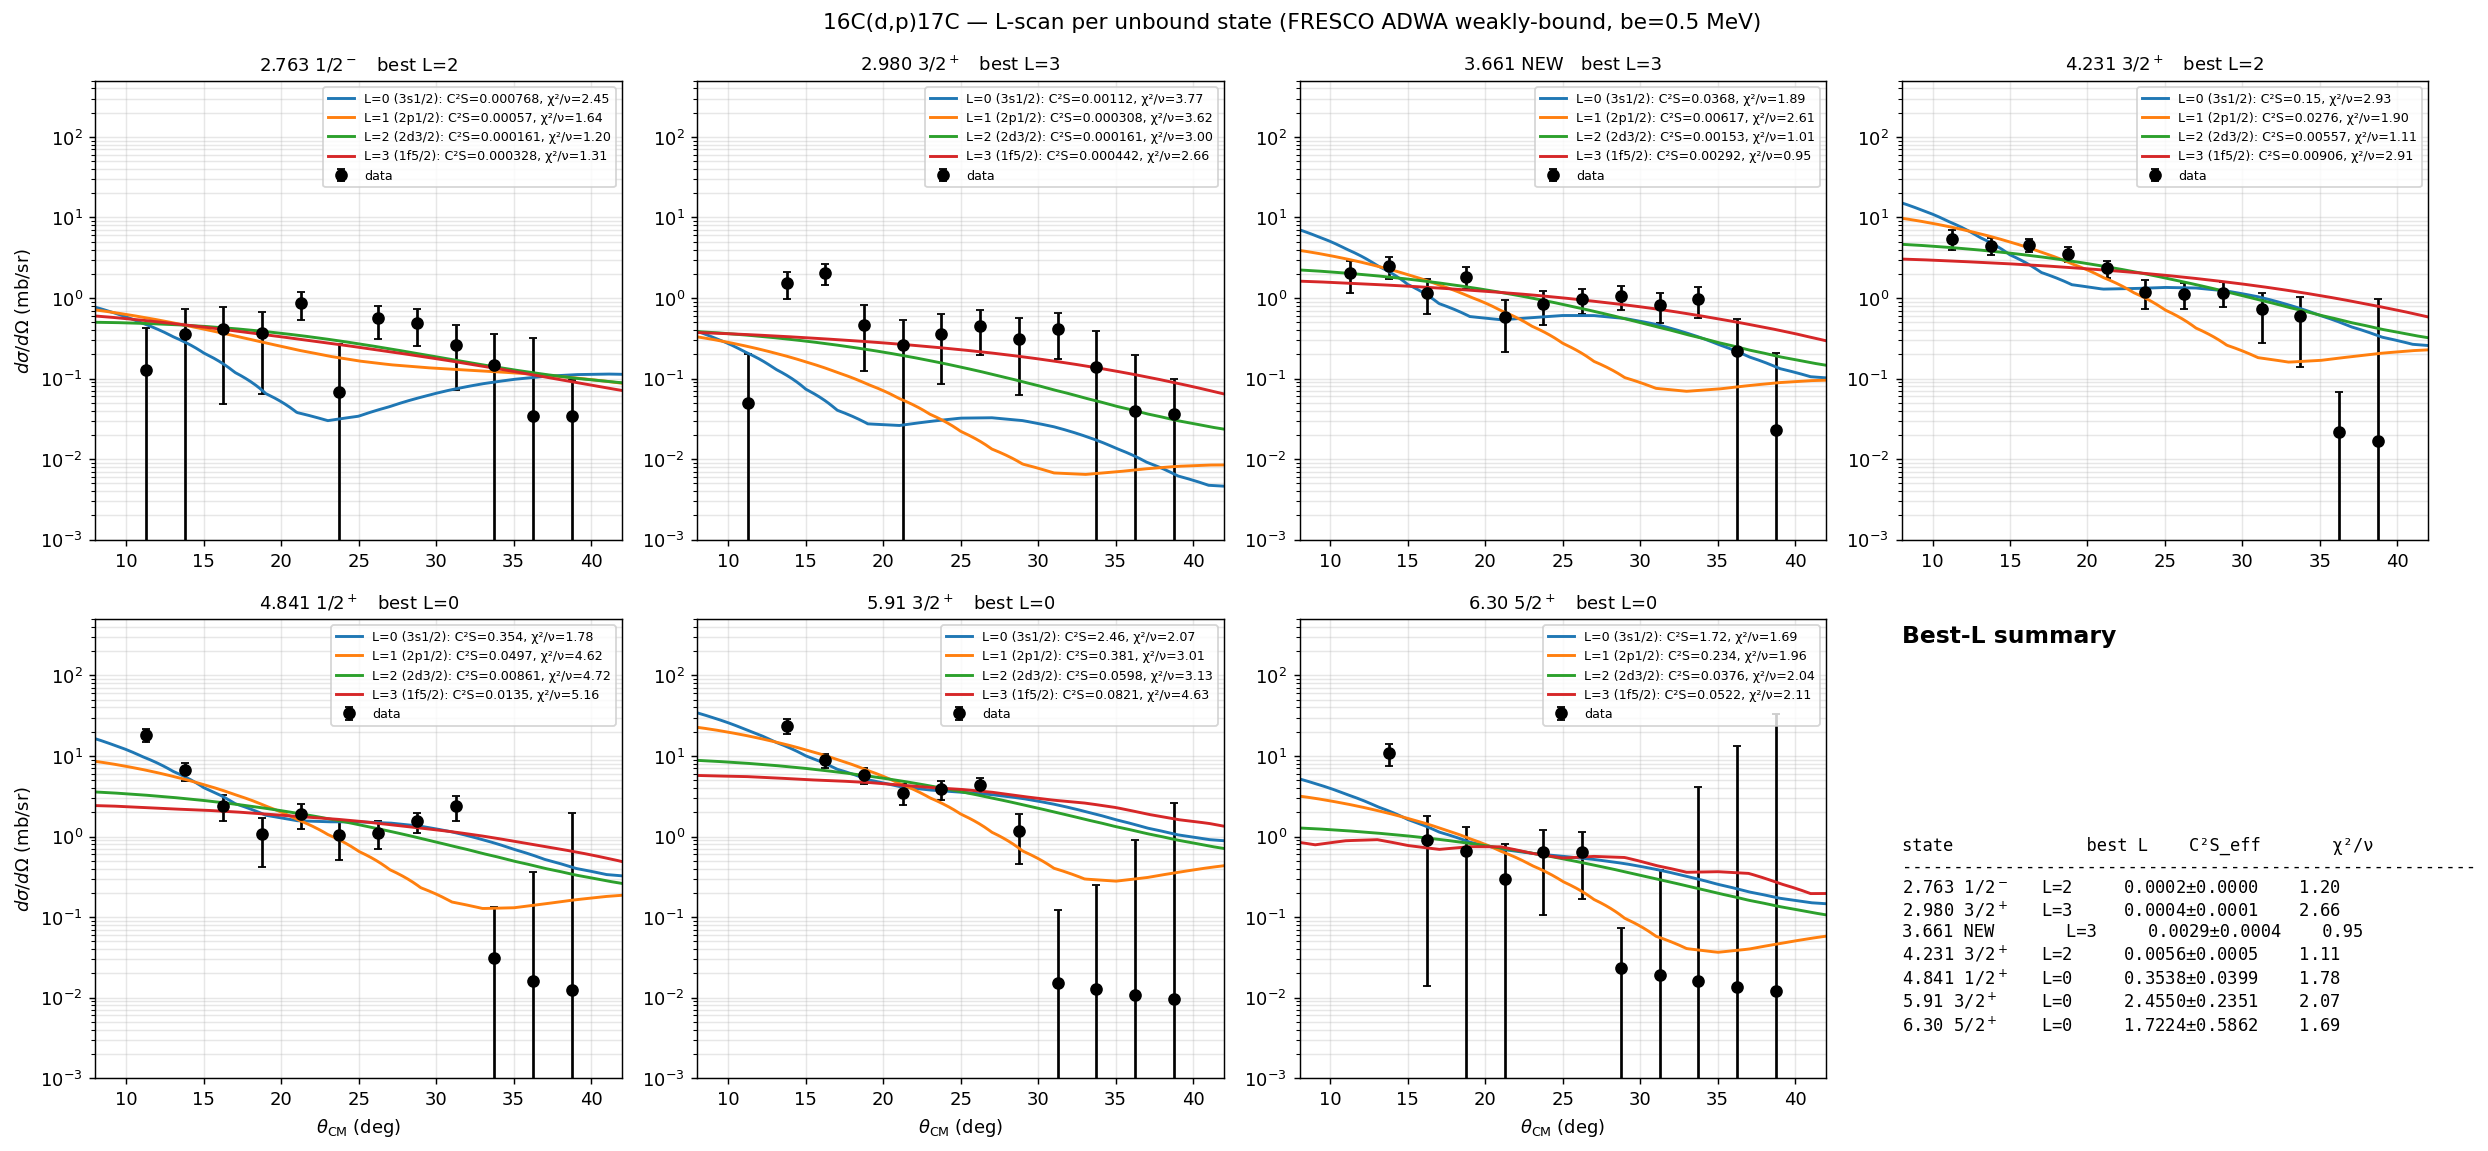
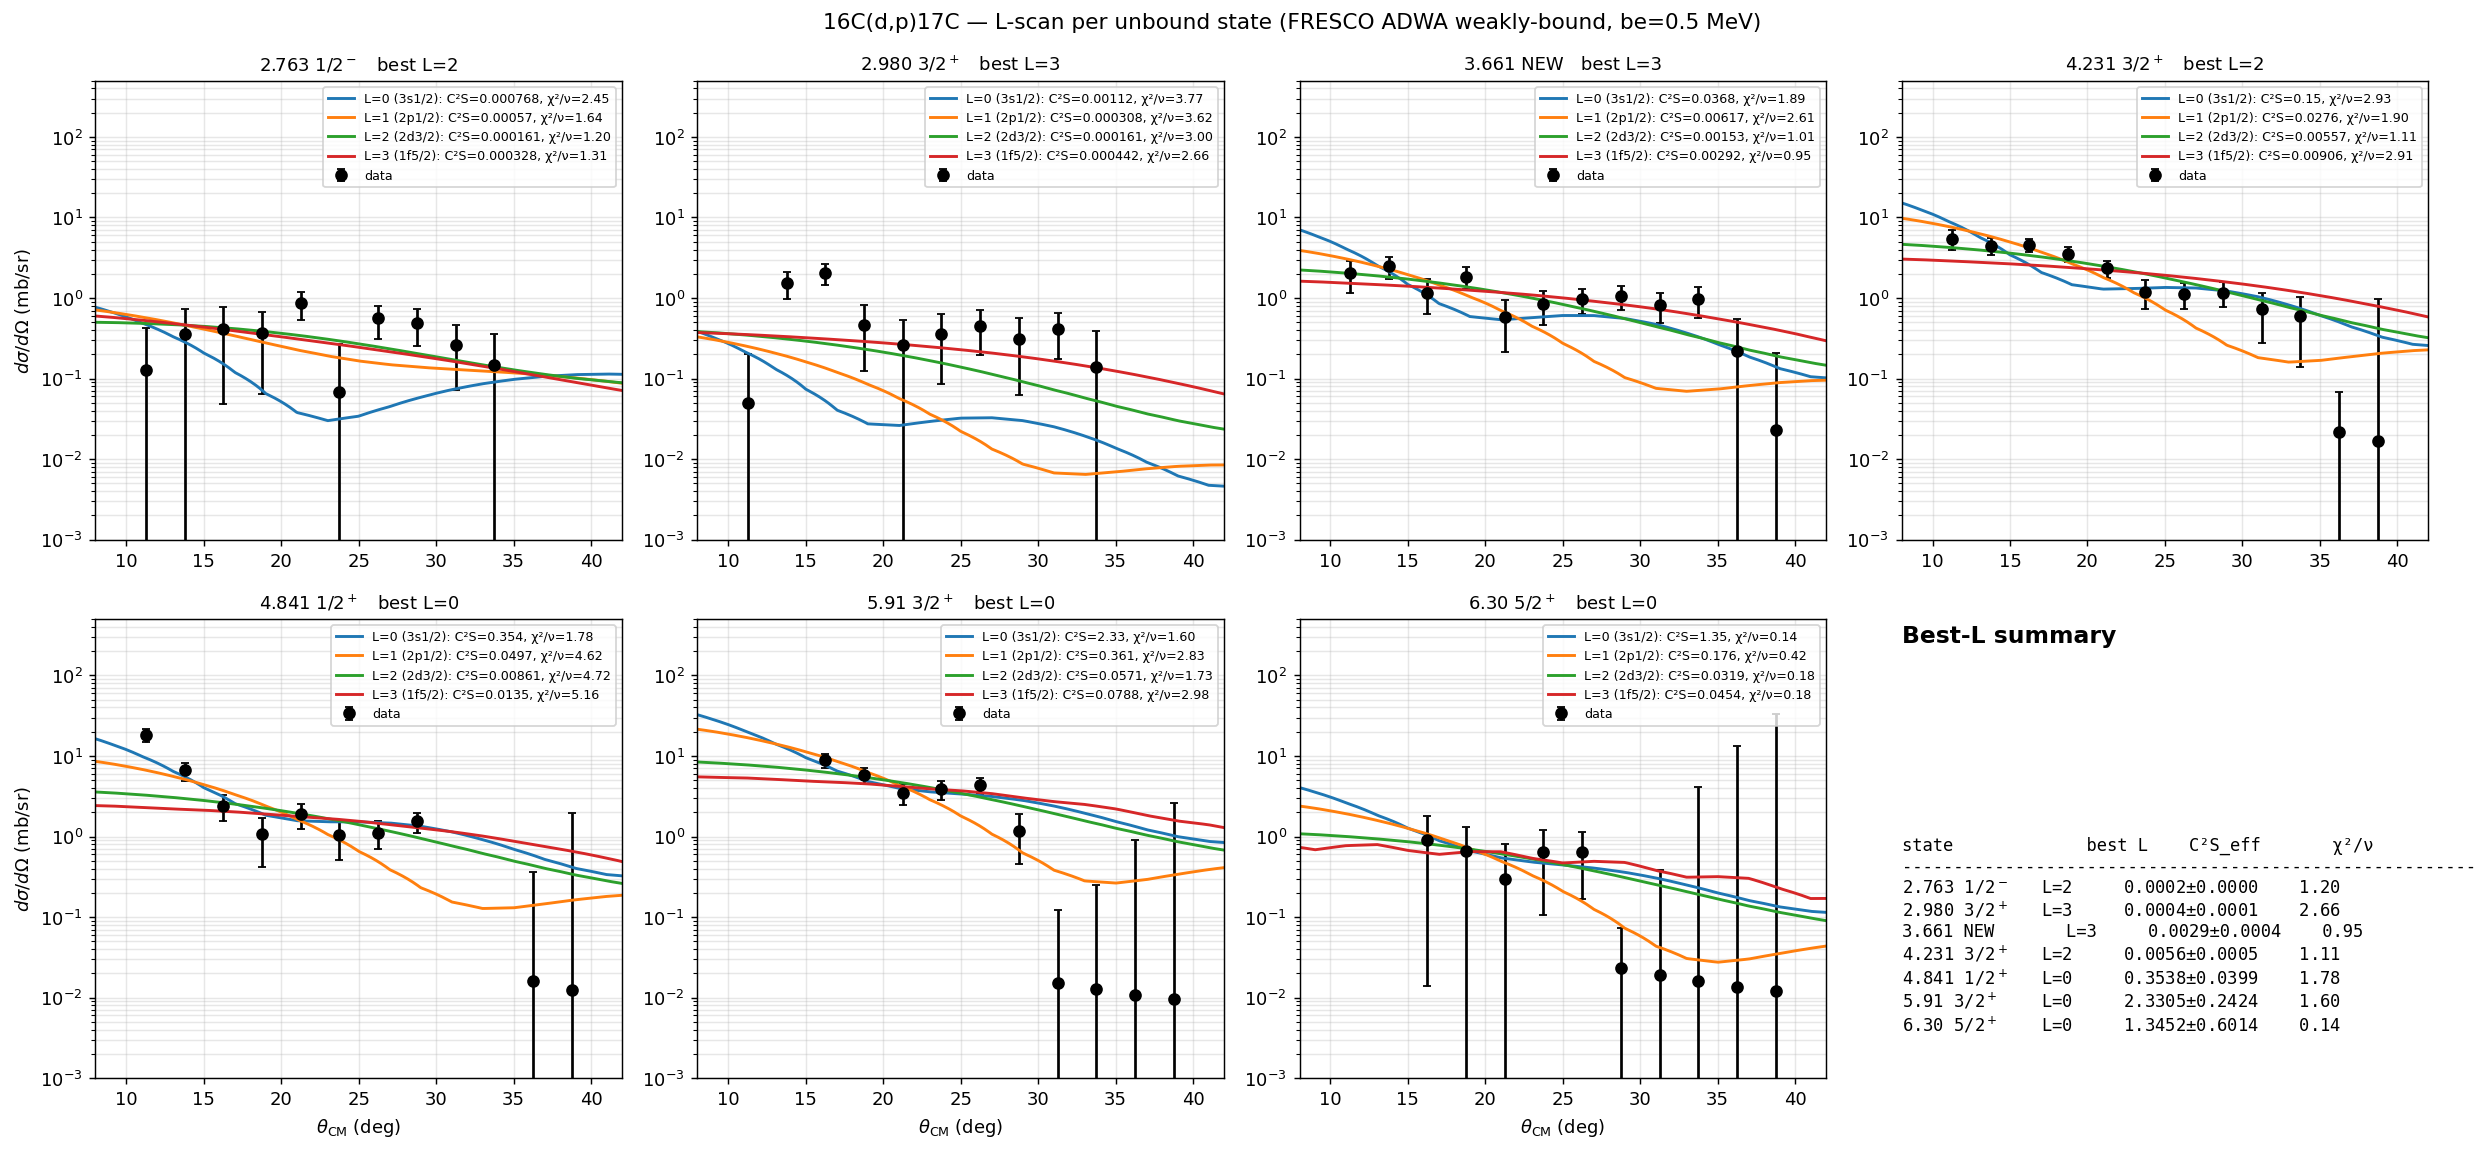
Add within-bin efficiency-gradient cut
The eps-floor alone kept the 13.75 deg bin (eps ~0.30 > 0.15) for the
high-Ex resonances, but that bin straddles a x4 efficiency swing and
was shown to be the sole driver of the spurious ex5.91/ex6.30 L=0 flip.

C16_pd_AngBins.C now also drops any (state, theta) bin where the
efficiency at the two bin edges differs by more than kEffGradMax = 2.0.
This directly targets steep-gradient bins regardless of their absolute
efficiency, and keeps low-but-flat bins.

8 bins removed (dsdo.csv 118 -> 110 rows):
- ex5.91, ex6.30 @ 13.75 deg  -- the artefact bins
- ex2.763, ex2.980 @ 36.25/38.75 deg -- backward eps drop-off
- ex4.841 @ 31.25/33.75 deg

FRESCO refit: ex5.91 and ex6.30 now have chi2/nu(L=0) ~ chi2/nu(L=2)
(1.60 vs 1.73; 0.14 vs 0.18) -- statistically a tie, L undetermined,
no longer contradicting the PDF's tentative L=2. Other states' L
assignments unchanged.

diff --git a/Codes/C16_pd_AngBins.C b/Codes/C16_pd_AngBins.C
@@ -542,6 +542,13 @@ void C16_pd_AngBins() {
     // angular-distribution fits should not see.
     constexpr double kEffFloor = 0.15;
 
+    // epsilon-gradient cut: drop a bin if the efficiency varies by more than
+    // this factor across the bin width.  The 5.9/6 MeV tables have a steep
+    // kinematic-threshold rise near 13-15 deg where eps swings x4 across a
+    // single 2.5-deg bin -- a bin-center eps is then meaningless and the
+    // corrected point is set by the interpolation, not the data.
+    constexpr double kEffGradMax = 2.0;
+
     // Load the Ex-dependent efficiency tables.  Detection efficiency in the
     // AT-TPC depends on the proton energy (hence the 17C excitation energy),
     // not just theta -- a state at Ex = 6 MeV has a very different track
@@ -628,7 +635,7 @@ void C16_pd_AngBins() {
         return binPars[b][9 + 4*(idx - 3) + 1];
     };
 
-    int nDropped = 0;
+    int nDropFloor = 0, nDropGrad = 0;
     for (size_t b = 0; b < kBins.size(); ++b) {
         const double thetaC = kBins[b].center();
         const double th_lo  = kBins[b].lo  * TMath::DegToRad();
@@ -639,16 +646,32 @@ void C16_pd_AngBins() {
             const double dY = yieldsErr[b][s];
             // Per-state efficiency: the 3 bound states (s < 3) sit at
             // Ex < 0.4 MeV and use the Ex=0 table; the 7 unbound resonances
-            // are interpolated in (Ex, theta) at their fitted Ex.
-            double effVal = 1.0, effErr = 0.0;
-            if (s < 3)
-                effAtTheta(effTables.front(), thetaC, effVal, effErr);
-            else
-                effInterp2D(stateEx(s, b), thetaC, effVal, effErr);
+            // are interpolated in (Ex, theta) at their fitted Ex.  Evaluate
+            // at the bin center and at both edges (for the gradient cut).
+            double effVal = 1.0, effErr = 0.0, effLo = 1.0, effHi = 1.0, dum = 0.0;
+            if (s < 3) {
+                effAtTheta(effTables.front(), thetaC,       effVal, effErr);
+                effAtTheta(effTables.front(), kBins[b].lo,  effLo,  dum);
+                effAtTheta(effTables.front(), kBins[b].hi,  effHi,  dum);
+            } else {
+                const double Ex = stateEx(s, b);
+                effInterp2D(Ex, thetaC,      effVal, effErr);
+                effInterp2D(Ex, kBins[b].lo, effLo,  dum);
+                effInterp2D(Ex, kBins[b].hi, effHi,  dum);
+            }
             // epsilon-floor cut: skip bins where the efficiency correction
             // is too large to be trustworthy.
             if (effVal < kEffFloor) {
-                ++nDropped;
+                ++nDropFloor;
+                continue;
+            }
+            // epsilon-gradient cut: skip bins where the efficiency varies
+            // too steeply across the bin width for a bin-center value to
+            // be meaningful.
+            const double eMin = std::min(effLo, effHi);
+            const double eMax = std::max(effLo, effHi);
+            if (eMin < 1e-6 || eMax / eMin > kEffGradMax) {
+                ++nDropGrad;
                 continue;
             }
             const double sigma_raw = (Y / (kNbeam * kNtarget)) / dOmega * kMbConv;
@@ -664,8 +687,9 @@ void C16_pd_AngBins() {
         }
     }
     dsdo.close();
-    std::cout << "wrote dsdo.csv (dropped " << nDropped
-              << " bins below eff floor " << kEffFloor << ")\n";
+    std::cout << "wrote dsdo.csv (dropped " << nDropFloor
+              << " bins below eff floor " << kEffFloor << ", "
+              << nDropGrad << " bins above eff gradient " << kEffGradMax << ")\n";
 
     // ---------------- plots ----------------
     // Draws data + total fit + each individual component (3 Gaussians, 7 BWs,
